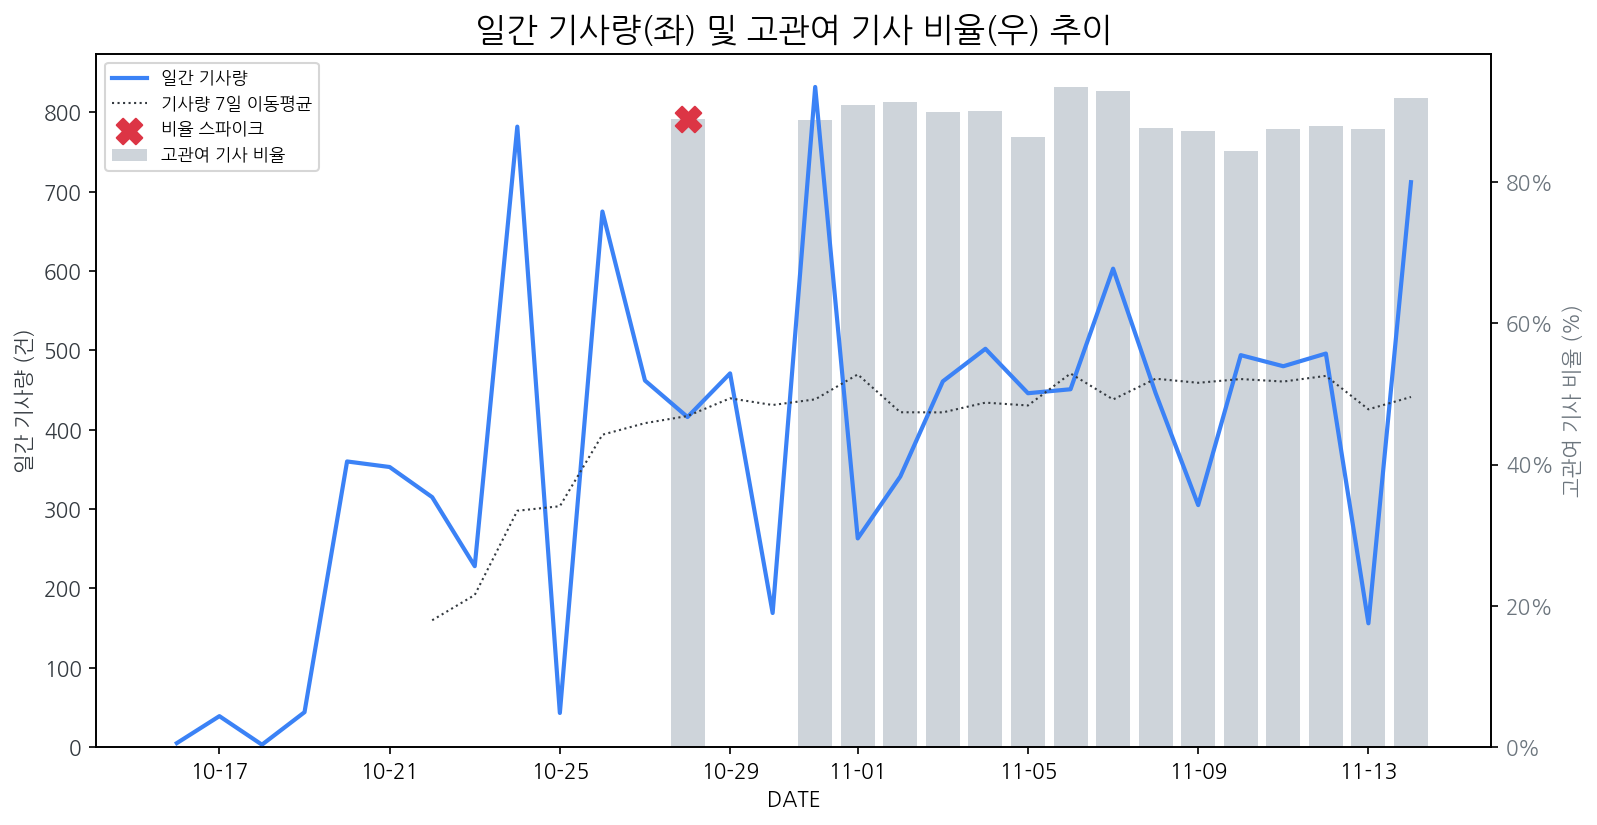
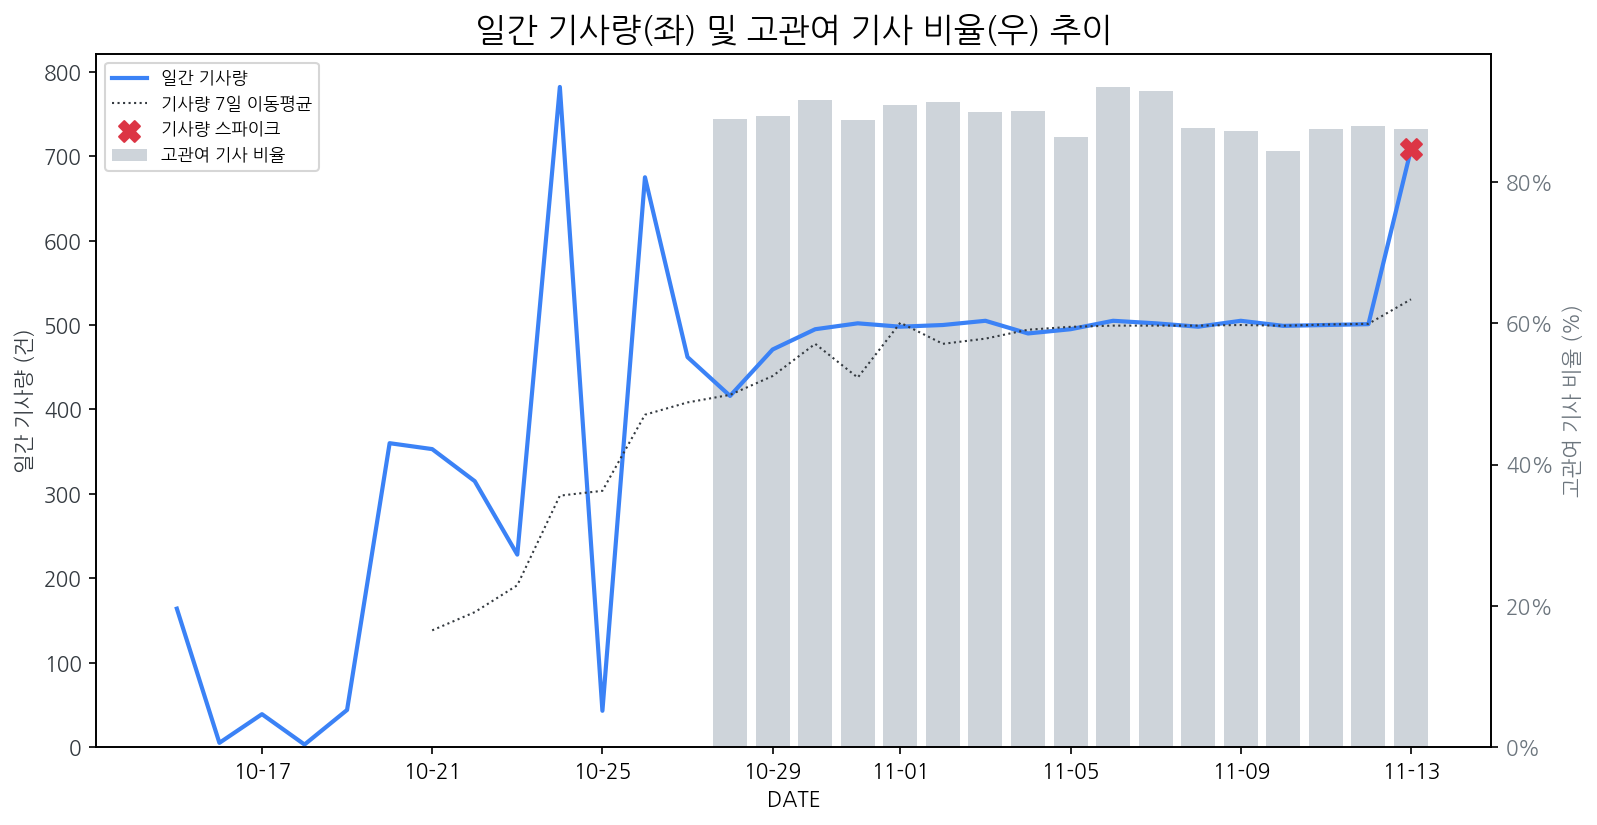
update

diff --git a/outputs/monthly/2025-11-14/2116-KST/monthly_report.html b/outputs/monthly/2025-11-14/2116-KST/monthly_report.html
@@ -710,92 +710,104 @@
             <br><br>
 
             <div class="section" id="risk">
-                 <div class="section-header">
+              
+                <div class="section-header">
                      <div class="section-number">3</div>
                      <div class="section-title" id="section-risk">Market Risk Management</div>
-                     <div class="section-subtitle">리스크/이슈 탐지</div>
+                     <div class="section-subtitle">리스크/이슈 탐지 및 전략적 대응</div>
+                
                  </div>
-                 <div class="section-subtitle">텍스트의 긍·부정 수준을 정량화하여 부정적 이슈의 급격한 증가를 탐지</div><br>
-
+                 <!--
+                 <div class="section-subtitle">텍스트의 긍·부정 수준을 정량화하여 부정적 이슈의 급격한 증가를 탐지하고 대응 매트릭스를 제안함</div><br>
+                 -->
                 <div class="exec-summary-box">
                     <div class="exec-summary-title">Summary</div>
-                    <div class="exec-summary-text">금월 최대 리스크는 '경쟁사의 OLEDoS 양산'입니다. SDC, BOE, SeeYa가 모두 XR 시장의 핵심 공급망에 진입하며 LGD가 차세대 시장에서 소외될(locked-out) 위험이 급증했습니다. 또한 SDC의 IT OLED 74% 독점은 Apple 수주 실패 시 LGD의 IT 사업 축소로 이어질 수 있습니다.</p></div>
+                    <div class="exec-summary-text"><p>금월 리스크 분석 결과, 가장 시급한 위협은 <strong>경쟁사(SDC)의 XR 및 IT 시장 선점</strong>입니다. SDC의 OLEDoS 양산과 8.6세대 IT 라인 가동은 LGD의 미래 성장 동력을 제한할 수 있습니다. 한편, 수익성이 낮은 <strong>LCD TV 사업의 완전 철수(Exit)</strong>와 <strong>Automotive 수주 잔고를 활용한 거시 경제 방어</strong>가 핵심 대응 전략으로 도출되었습니다.</p></div>
                 </div> 
 
-                <h3>시장 내 주요 리스크 탐지</h3>                    
+                <h3>시장 내 주요 리스크 탐지 목록</h3>                    
                     
-                         <img src="fig/risk_negative_spikes.png" alt="부정 감성 급등 토픽" class="report-graph mb-2">
+                <img src="fig/risk_negative_spikes.png" alt="부정 감성 급등 토픽" class="report-graph mb-2">
                     
-                    <div><table class="dataframe-table risk-table">
-  <thead>
-    <tr style="text-align: right;">
-      <th>토픽/분야</th>
-      <th>요약</th>
-      <th>심각도</th>
-      <th>영향 범위</th>
-      <th>완화 액션 (AI 제안)</th>
-    </tr>
-  </thead>
-  <tbody>
-    <tr>
-      <td><strong>XR (OLEDoS)</strong></td>
-      <td>SDC, BOE, SeeYa가 2025-26년 Apple/Samsung/Meta의 XR 기기 공급망 진입.</td>
-      <td><span class="risk-level risk-high">High</span><br>(0.350)</td>
-      <td>장기/전략</td>
-      <td>4세대 탠덤 기술 기반 RGB OLEDoS 개발 가속화 (R&D팀)</td>
-    </tr>
-    <tr>
-      <td><strong>IT (Notebooks)</strong></td>
-      <td>SDC가 'IT 서밋' 개최 등 74% 독점 지위 강화. LGD는 Apple의 2026년 선택에 의존.</td>
-      <td><span class="risk-level risk-medium">Medium</span><br>(0.180)</td>
-      <td>중기/재무</td>
-      <td>8.6세대 IT 라인 수율 확보 및 Apple 스펙 선제 대응 (Eng.팀)</td>
-    </tr>
-  </tbody>
-</table></div>
+                <div>
+                <table class="dataframe-table risk-table">
+                  <thead>
+                    <tr style="text-align: right;">
+                      <th style="width: 15%;">토픽/분야</th>
+                      <th style="width: 40%;">요약</th>
+                      <th style="width: 10%;">심각도</th>
+                      <th style="width: 10%;">영향 범위</th>
+                      <th style="width: 25%;">완화 액션 (AI 제안)</th>
+                    </tr>
+                  </thead>
+                  <tbody>
+                    <tr>
+                      <td><strong>XR (OLEDoS)</strong></td>
+                      <td>SDC가 '갤럭시 XR'용 패널 양산을 시작하며, 시장 초기 주도권 및 고객사(Google/Qualcomm 동맹) 선점 우려.</td>
+                      <td><span class="risk-level risk-high">High</span><br>(0.350)</td>
+                      <td>장기/전략</td>
+                      <td>4세대 탠덤 기술 기반 RGB OLEDoS 개발 가속화 및 소니/애플 공급망 협력 강화</td>
+                    </tr>
+                    <tr>
+                      <td><strong>IT (Notebooks)</strong></td>
+                      <td>SDC의 8.6세대 선제 투자로 인한 2026년 IT OLED 시장 점유율 격차 확대 및 단가 경쟁 심화.</td>
+                      <td><span class="risk-level risk-medium">Medium</span><br>(0.180)</td>
+                      <td>중기/재무</td>
+                      <td>Apple MacBook Pro(2026) 탠덤 스펙 단독 대응 및 수율 조기 확보</td>
+                    </tr>
+                    <tr>
+                      <td><strong>LCD (TV Panel)</strong></td>
+                      <td>중국 기업(BOE, CSOT)의 물량 공세로 인한 범용 패널 수익성 악화 지속.</td>
+                      <td><span class="risk-level risk-medium">Medium</span><br>(0.150)</td>
+                      <td>단기/재무</td>
+                      <td>광저우 LCD 공장 매각 마무리 및 유휴 인력의 OLED 라인 전환 배치</td>
+                    </tr>
+                  </tbody>
+                </table>
+                </div>
 
                 <div class="mb-4">
-                     <h3>리스크 대응 매트릭스</h3>
+                     <h3>리스크 대응 매트릭스 (R-Matrix)</h3>
            
-                     <div class="section-subtitle">위험 유형을 기준으로 대응 전략을 제시하고, 우선순위 결정을 지원함</div><br>
+                     <div class="section-subtitle">위험 유형을 기준으로 4가지 대응 전략(4T)을 수립하여 우선순위를 결정함</div><br>
                      <div class="risk-matrix-grid">
                          <div class="risk-matrix-card avoid">
                       
                              <h4>🔴 회피 (Avoid)</h4>
-                             <p><strong>대상:</strong> 저가형 LCD 패널 시장에서의 전면 가격 경쟁</p>
-                             <p><strong>전략:</strong> AI 권고 생성 예정</p>
+                             <p><strong>대상:</strong> 저수익 범용 LCD TV 패널 시장 경쟁</p>
+                             <p><strong>전략:</strong> <strong>사업 구조조정 완료.</strong> 광저우 LCD 공장 매각을 차질 없이 마무리하고, IT/모바일 OLED로 사업 구조를 완전히 재편하여 출혈 경쟁 시장에서 이탈함.</p>
          
                          </div>
                          <div class="risk-matrix-card mitigate">
                              <h4>🟠 완화 (Mitigate)</h4>
                 
-                             <p><strong>대상:</strong> IT OLED 시장의 SDC 독점</p>
-                             <p><strong>전략:</strong> Apple 2026년 물량 확보로 완화</p>
+                             <p><strong>대상:</strong> IT OLED 시장 내 SDC의 독점적 지위</p>
+                             <p><strong>전략:</strong> <strong>기술 차별화로 점유율 방어.</strong> LGD만의 '투 탠덤(Two-Tandem)' 수명/휘도 경쟁력을 앞세워 Apple 등 프리미엄 고객사의 2026년 물량을 선제적으로 확보.</p>
                          </div>
          
                          <div class="risk-matrix-card transfer">
                              <h4>🔵 전가 (Transfer)</h4>
-                             <p><strong>대상:</strong> 일부 레거시 공정 장비 리스크</p>
+                             <p><strong>대상:</strong> 차세대 공정(8.6세대) 초기 투자 리스크</p>
       
-                             <p><strong>전략:</strong> 협력사 공동 관리</p>
+                             <p><strong>전략:</strong> <strong>전략적 파트너십 활용.</strong> 설비 투자 부담을 줄이기 위해 주요 장비사와의 공동 개발(JDA)을 확대하고, 고객사(Apple)로부터 설비 투자비 일부를 선수금 형태로 유치.</p>
                          </div>
                          <div class="risk-matrix-card accept">
        
                              <h4>⚪ 수용 (Accept)</h4>
-                             <p><strong>대상:</strong> Automotive 시장의 계절적 수요 변동성</p>
-                             <p><strong>전략:</strong> AI 권고 생성 예정</p>
+                             <p><strong>대상:</strong> 글로벌 IT 세트 수요의 계절적 변동성</p>
+                             <p><strong>전략:</strong> <strong>수주 산업 비중 확대.</strong> 경기 변동에 민감한 IT/TV 비중을 줄이고, 장기 계약 기반의 '오토모티브(차량용)' 매출 비중을 40%까지 확대하여 기초 체력 강화.</p>
                          </div>
                      </div>
                 </div>
 
                 <div class="immediate-action-box">
      
-                     <h4>🚨 즉시 대응 필요 항목 (AI)</h4>
+                     <h4>🚨 즉시 대응 필요 항목 (Priority Action)</h4>
                      <ol>
                          
-                         <li><strong>XR (OLEDoS):</strong> SDC의 OLEDoS 양산 패널 긴급 입수 및 경쟁력 분석 착수 (담당: 경쟁전략팀, 기한: 2025-12-01)</li>
+                         <li><strong>XR 경쟁력 확보:</strong> SDC 양산 OLEDoS 패널 긴급 입수 및 픽셀 구조/휘도 벤치마킹 실시 (담당: 분석팀, 기한: 2주 이내)</li>
                          
-                         <li><strong>IT (Notebooks):</strong> 2026년형 Apple MacBook Pro 탠덤 스펙 대응을 위한 LGD 4세대 탠덤 기술 제안서 발송 (담당: Apple영업팀, 기한: 2025-11-25)</li>
+                         <li><strong>IT 수주 확정:</strong> Apple 2026년형 MacBook Pro 최종 퀄(Qual) 통과를 위한 탠덤 OLED 샘플 송부 (담당: Apple영업팀, 기한: 1주 이내)</li>
             
                      </ol>
                 </div>

diff --git a/scripts/generate_visuals.py b/scripts/generate_visuals.py
@@ -186,14 +186,15 @@ def plot_enhanced_timeseries(df_display, spike_threshold=2.0):
 
     if all_spikes_dfs:
         spikes_count = df[df.get('count_z', 0) >= spike_threshold]
-        spikes_ratio = df[df.get('signal_ratio_z', 0) >= spike_threshold]
+        # spikes_ratio = df[df.get('signal_ratio_z', 0) >= spike_threshold]
         if not spikes_count.empty:
             # [수정] marker='^' (위쪽 삼각형) 추가
-            ax1.scatter(spikes_count['date'], spikes_count['count'], color='#0b5ed7', s=100, marker='P', zorder=4, label='기사량 스파이크')
+            ax1.scatter(spikes_count['date'], spikes_count['count'], color='#dc3545', s=100, marker='X', zorder=4, label='기사량 스파이크')
+        '''
         if not spikes_ratio.empty:
             # [수정] marker='*' (별), s=150 (크기 증가) 추가
             ax2.scatter(spikes_ratio['date'], spikes_ratio['signal_ratio'], color='#dc3545', s=150, marker='X', zorder=4, label='비율 스파이크')
-
+        '''
     ax1.set_zorder(2); ax1.patch.set_visible(False)
     plt.title('일간 기사량(좌) 및 고관여 기사 비율(우) 추이', fontsize=16)
     ax1.set_xlabel('DATE'); ax1.xaxis.set_major_formatter(mdates.DateFormatter('%m-%d'))
